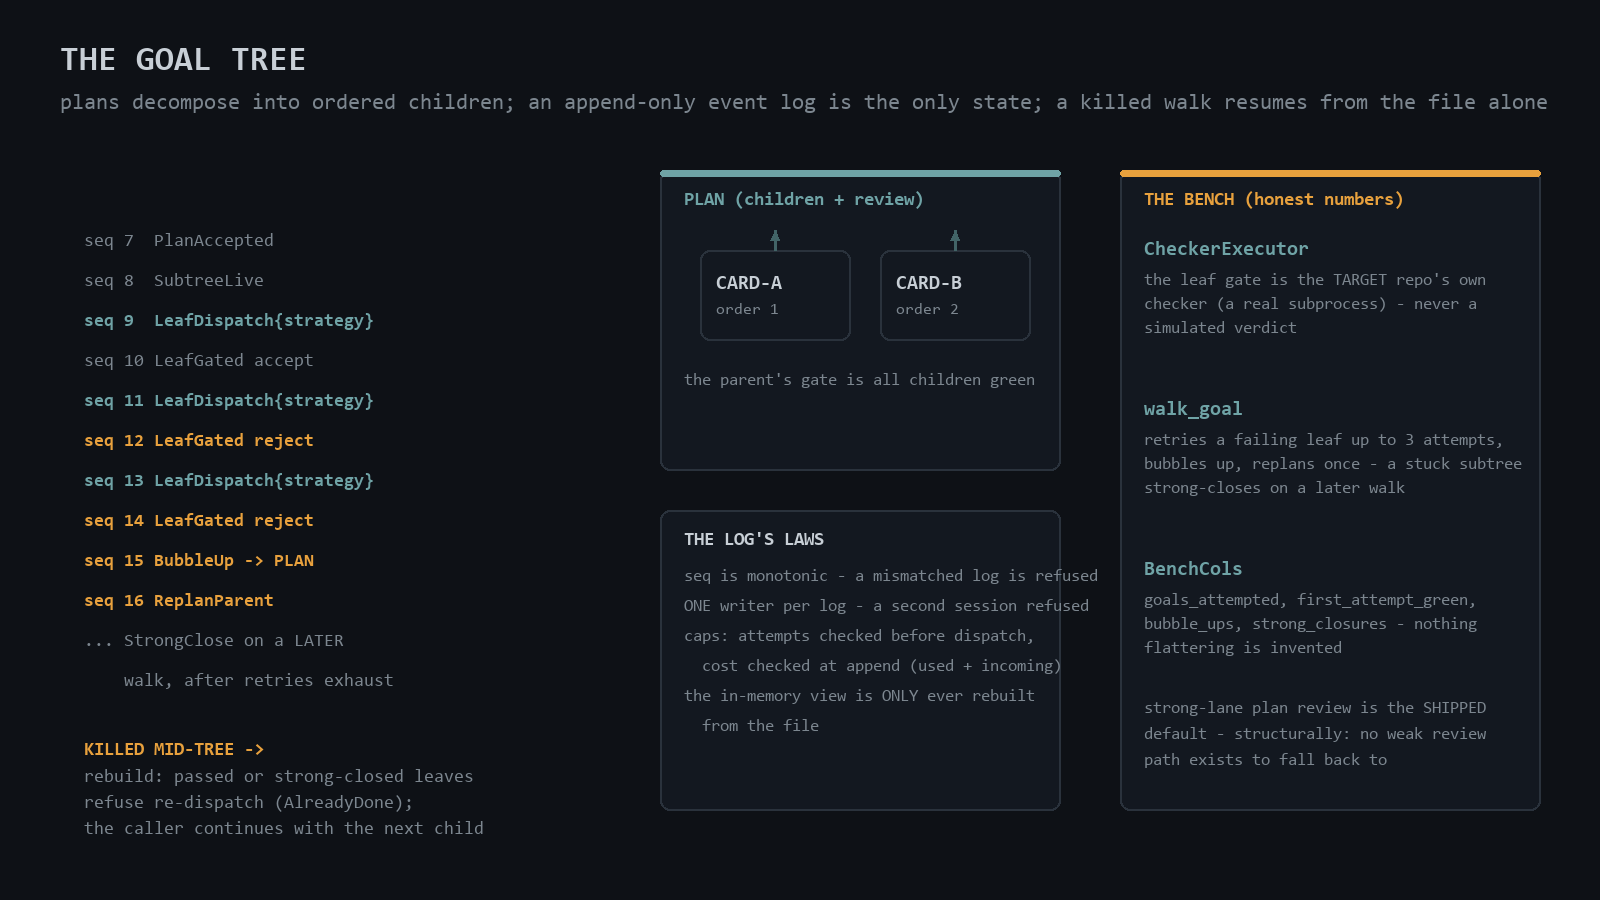
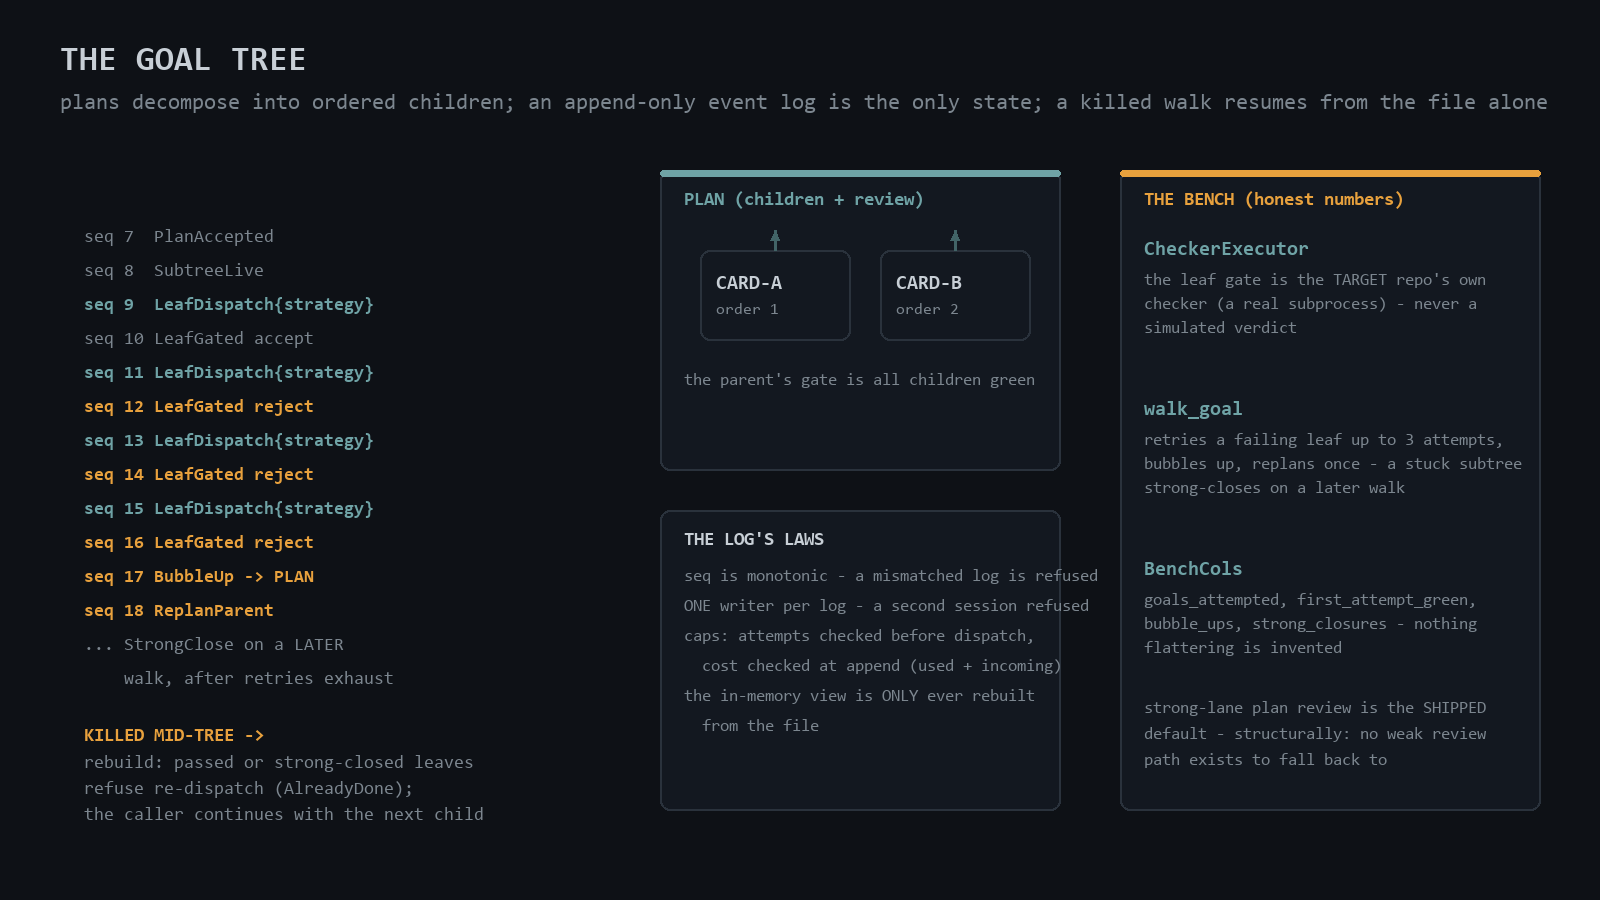
sentinel r7: parse_fields stops at anchors (fixture bytes are data); diagrams: 3rd reject, wired arrows (CARD-0099)

Changed region(s): [[0.0312, 0.2489, 0.25, 0.7156], [0.0312, 0.8089, 0.3125, 0.9333], [0.0938, 0.7467, 0.25, 0.7778]]

diff --git a/tools/assets/diagrams_work.py b/tools/assets/diagrams_work.py
@@ -66,10 +66,8 @@ def draw_card_anatomy():
         label(d, x + 24, y + 18, t, 22, col, bold=True)
         for j, line in enumerate(g.split("\n")):
             label(d, x + 24, y + 52 + j * 24, line, 17)
-    for y in (240, 500):
-        arrow(d, 620, y, 700, y)
-
-    label(d, 60, H - 64, "sections sit at # or ## - and a fenced block is CONTENT: an embedded plan never leaks its sections into the wrapper", 19)
+    for x0, y0, y1 in ((620, 250, 237), (620, 408, 372), (620, 460, 512), (620, 512, 662)):
+        arrow(d, x0, y0, 700, y1)
     img.save(os.path.join(ASSETS, "diagram-card-anatomy.png"))
 
 
@@ -154,17 +152,19 @@ def draw_tree():
         ("seq 12 LeafGated reject", AMBER),
         ("seq 13 LeafDispatch{strategy}", TEAL),
         ("seq 14 LeafGated reject", AMBER),
-        ("seq 15 BubbleUp -> PLAN", AMBER),
-        ("seq 16 ReplanParent", AMBER),
+        ("seq 15 LeafDispatch{strategy}", TEAL),
+        ("seq 16 LeafGated reject", AMBER),
+        ("seq 17 BubbleUp -> PLAN", AMBER),
+        ("seq 18 ReplanParent", AMBER),
         ("... StrongClose on a LATER", DIM),
         ("    walk, after retries exhaust", DIM),
     ]
     for i, (s, c) in enumerate(events):
-        label(d, 84, 232 + i * 40, s, 18, c, bold=(c in (TEAL, AMBER)))
-    label(d, 84, 740, "KILLED MID-TREE ->", 19, AMBER, bold=True)
-    label(d, 84, 768, "rebuild: passed or strong-closed leaves", 18)
-    label(d, 84, 794, "refuse re-dispatch (AlreadyDone);", 18)
-    label(d, 84, 820, "the caller continues with the next child", 18)
+        label(d, 84, 228 + i * 34, s, 18, c, bold=(c in (TEAL, AMBER)))
+    label(d, 84, 726, "KILLED MID-TREE ->", 19, AMBER, bold=True)
+    label(d, 84, 754, "rebuild: passed or strong-closed leaves", 18)
+    label(d, 84, 780, "refuse re-dispatch (AlreadyDone);", 18)
+    label(d, 84, 806, "the caller continues with the next child", 18)
 
     # the tree shape
     panel(d, 660, 170, 400, 300, None, accent=TEAL)

diff --git a/crates/caddis-card/tests/card_exec.rs b/crates/caddis-card/tests/card_exec.rs
@@ -76,6 +76,20 @@ fn absent_level_defaults_to_l1_like_garbage_does() {
 }
 
 #[test]
+fn anchor_bytes_never_retune_the_contract() {
+    // A verbatim fixture mentioning contract keys inside content:| is
+    // DATA, not a declaration (doc-reality sentinel round).
+    let text = with_exec(
+        "level: L1\nblast: 1\nclaims-forbidden: true\nanchors:\n  - path: cfg.py\n    content: |\n      level: L3\n      blast: 4\n      claims-forbidden: false\nallowlist:\n  - edit cfg.py\n",
+    );
+    let card = Card::parse(&text).expect("parse");
+    let exec = card.validate_strict().expect("the declared contract holds");
+    assert_eq!(exec.level, "L1");
+    assert_eq!(exec.blast, 1);
+    assert!(exec.claims_forbidden);
+}
+
+#[test]
 fn invalid_or_absent_level_defaults_to_l1_never_errors() {
     let text = with_exec(
         "level: L9\nblast: 1\nclaims-forbidden: true\nanchors:\n  - path: a\n    content: |\n      x\nallowlist:\n  - edit a\n",

diff --git a/crates/caddis-card/src/execution.rs b/crates/caddis-card/src/execution.rs
@@ -109,12 +109,18 @@ fn parse_anchors(body: &str) -> Vec<Anchor> {
 }
 
 /// Scalar `key: value` fields, one pass (level normalizes LOW on garbage;
-/// blast parses or stays None so the caller can hard-error once).
+/// blast parses or stays None so the caller can hard-error once). Parsing
+/// STOPS at the top-level `anchors:` line: anchor bodies are EXACT-verbatim
+/// file bytes, and a fixture line like `blast: 4` or `level: int` must
+/// never retune or reject the declared contract above it.
 fn parse_fields(body: &str) -> (String, Option<u32>, bool) {
     let mut level = String::new();
     let mut blast = None;
     let mut claims = false;
     for line in body.lines() {
+        if line == "anchors:" {
+            break;
+        }
         if let Some((k, v)) = line.split_once(':') {
             match k.trim() {
                 "level" => level = normalize_level(v.trim()),
